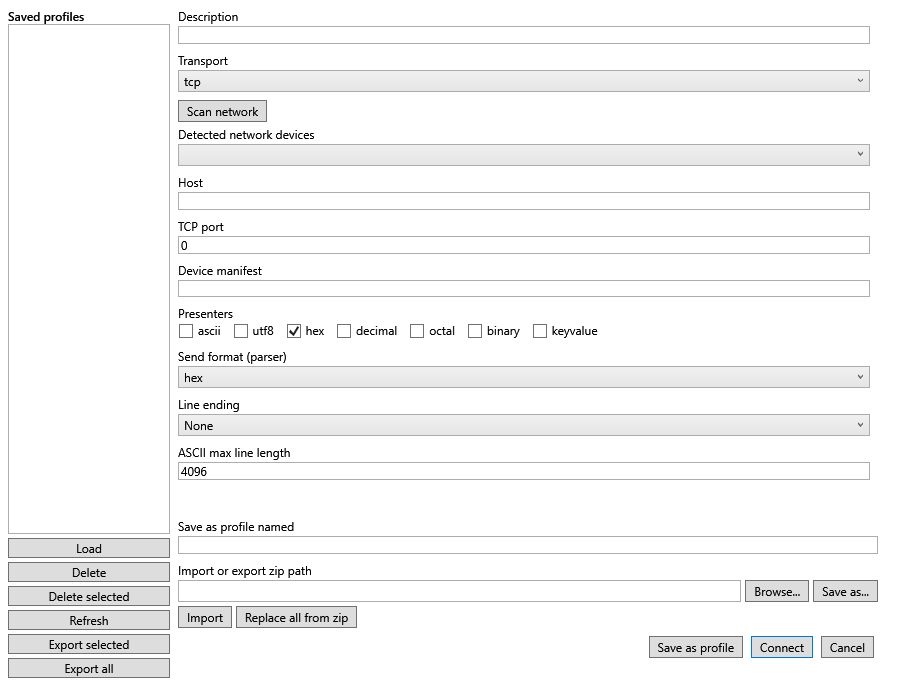
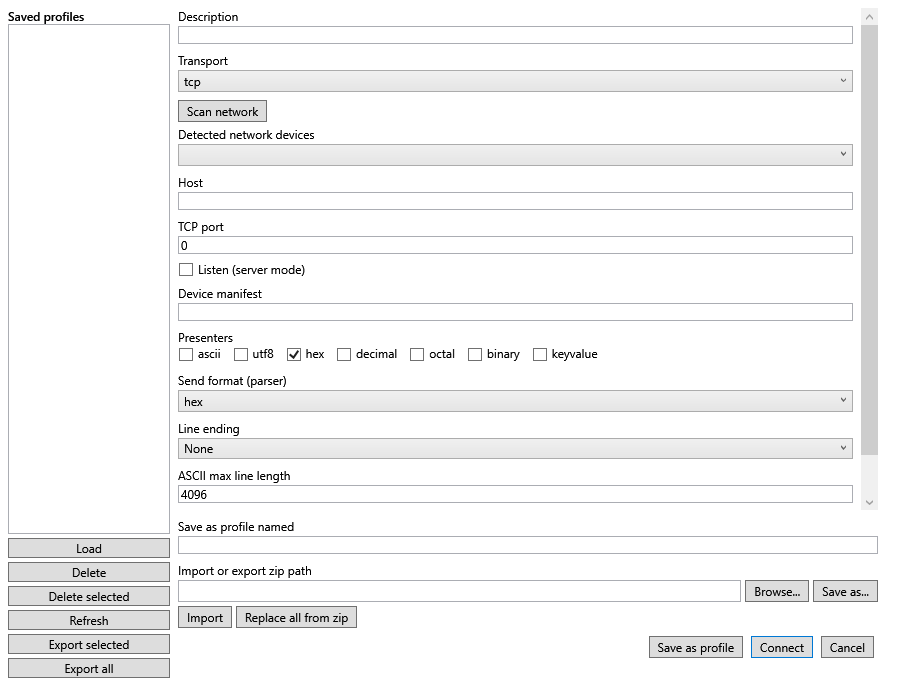
Add the remaining connection fields to the WPF editor and a coverage test

Changed region(s): [[0.1867, 0.03, 0.9956, 0.72]]

diff --git a/src/Applications/DevTerm/OoBDev.DevTerm.Wpf/ConnectionEditorWindow.xaml b/src/Applications/DevTerm/OoBDev.DevTerm.Wpf/ConnectionEditorWindow.xaml
@@ -62,6 +62,7 @@
                     <ComboBox ItemsSource="{Binding SerialPortNames}" SelectedItem="{Binding SelectedSerialPort}" ItemTemplate="{StaticResource TextDisplay}" Margin="0,2,0,8" />
                     <TextBlock Text="Serial port" />
                     <TextBox Text="{Binding Port, UpdateSourceTrigger=PropertyChanged}" Margin="0,2,0,8" />
+                    <TextBlock Text="{Binding SerialPortNotFoundHint}" Foreground="Firebrick" TextWrapping="Wrap" Margin="0,0,0,8" Visibility="{Binding ConnectedDeviceNotFound, Converter={StaticResource Visible}}" />
                     <TextBlock Text="Baud" />
                     <TextBox Text="{Binding Baud, UpdateSourceTrigger=PropertyChanged}" Margin="0,2,0,8" />
                     <TextBlock Text="Data bits" />
@@ -72,6 +73,14 @@
                     <ComboBox ItemsSource="{Binding StopBitsOptions}" SelectedItem="{Binding StopBitsText}" Margin="0,2,0,8" />
                     <TextBlock Text="Flow control" />
                     <ComboBox ItemsSource="{Binding HandshakeOptions}" SelectedItem="{Binding HandshakeText}" Margin="0,2,0,8" />
+                    <CheckBox Content="DTR" IsChecked="{Binding Dtr}" Margin="0,0,0,4" />
+                    <CheckBox Content="RTS" IsChecked="{Binding Rts}" Margin="0,0,0,8" />
+                    <TextBlock Text="Write timeout (ms)" />
+                    <TextBox Text="{Binding WriteTimeoutMs, UpdateSourceTrigger=PropertyChanged}" Margin="0,2,0,8" />
+                    <StackPanel Visibility="{Binding IsSerialTransport, Converter={StaticResource Visible}}">
+                    <TextBlock Text="Read timeout (ms)" />
+                    <TextBox Text="{Binding ReadTimeoutMs, UpdateSourceTrigger=PropertyChanged}" Margin="0,2,0,8" />
+                    </StackPanel>
                 </StackPanel>
                 <StackPanel Visibility="{Binding IsTcpLikeTransport, Converter={StaticResource Visible}}">
                     <Button Content="Scan network" Command="{Binding Scans.ScanLxi, RelativeSource={RelativeSource AncestorType=Window}}" HorizontalAlignment="Left" Padding="8,2" Margin="0,0,0,4" />
@@ -81,20 +90,23 @@
                     <TextBox Text="{Binding Host, UpdateSourceTrigger=PropertyChanged}" Margin="0,2,0,8" />
                     <TextBlock Text="TCP port" />
                     <TextBox Text="{Binding TcpPort, UpdateSourceTrigger=PropertyChanged}" Margin="0,2,0,8" />
+                    <CheckBox Content="Listen (server mode)" IsChecked="{Binding Listen}" Visibility="{Binding IsTcpTransport, Converter={StaticResource Visible}}" Margin="0,0,0,8" />
                 </StackPanel>
                 <StackPanel Visibility="{Binding IsUsbDeviceTransport, Converter={StaticResource Visible}}">
                     <TextBlock Text="Detected HID devices" Visibility="{Binding IsHidTransport, Converter={StaticResource Visible}}" />
                     <ComboBox ItemsSource="{Binding HidDeviceOptions}" SelectedItem="{Binding SelectedHidDevice}" ItemTemplate="{StaticResource OptionDisplay}" Margin="0,2,0,8" Visibility="{Binding IsHidTransport, Converter={StaticResource Visible}}" />
                     <TextBlock Text="Detected USBTMC devices" Visibility="{Binding IsUsbtmcTransport, Converter={StaticResource Visible}}" />
                     <ComboBox ItemsSource="{Binding UsbtmcDeviceOptions}" SelectedItem="{Binding SelectedUsbtmcDevice}" ItemTemplate="{StaticResource OptionDisplay}" Margin="0,2,0,8" Visibility="{Binding IsUsbtmcTransport, Converter={StaticResource Visible}}" />
-                    <TextBlock Text="Vendor id" />
-                    <TextBox Text="{Binding VendorId, UpdateSourceTrigger=PropertyChanged}" Margin="0,2,0,8" />
-                    <TextBlock Text="Product id" />
-                    <TextBox Text="{Binding ProductId, UpdateSourceTrigger=PropertyChanged}" Margin="0,2,0,8" />
+                    <CheckBox Content="Show as hex" IsChecked="{Binding IdsShowHex}" Margin="0,0,0,8" />
+                    <TextBlock Text="Vendor ID" />
+                    <TextBox Text="{Binding VendorIdDisplay, UpdateSourceTrigger=PropertyChanged}" Margin="0,2,0,8" />
+                    <TextBlock Text="Product ID" />
+                    <TextBox Text="{Binding ProductIdDisplay, UpdateSourceTrigger=PropertyChanged}" Margin="0,2,0,8" />
                     <TextBlock Text="Serial number" />
                     <TextBox Text="{Binding SerialNumber, UpdateSourceTrigger=PropertyChanged}" Margin="0,2,0,8" />
                     <TextBlock Text="Device path" />
                     <TextBox Text="{Binding DevicePath, UpdateSourceTrigger=PropertyChanged}" Margin="0,2,0,8" />
+                    <TextBlock Text="{Binding UsbDeviceNotFoundHint}" Foreground="Firebrick" TextWrapping="Wrap" Margin="0,0,0,8" Visibility="{Binding ConnectedDeviceNotFound, Converter={StaticResource Visible}}" />
                 </StackPanel>
                 <StackPanel Visibility="{Binding IsBleTransport, Converter={StaticResource Visible}}">
                     <Button Content="Scan Bluetooth" Command="{Binding Scans.ScanBle, RelativeSource={RelativeSource AncestorType=Window}}" HorizontalAlignment="Left" Padding="8,2" Margin="0,0,0,4" />
@@ -117,6 +129,15 @@
                 <StackPanel Visibility="{Binding IsMqttTransport, Converter={StaticResource Visible}}">
                     <TextBlock Text="User name" />
                     <TextBox Text="{Binding Username, UpdateSourceTrigger=PropertyChanged}" Margin="0,2,0,8" />
+                    <TextBlock Text="Subscribe topics" />
+                    <TextBox Text="{Binding Subscribe, UpdateSourceTrigger=PropertyChanged}" Margin="0,2,0,8" />
+                    <TextBlock Text="Publish topic" />
+                    <TextBox Text="{Binding Publish, UpdateSourceTrigger=PropertyChanged}" Margin="0,2,0,8" />
+                </StackPanel>
+                <StackPanel Visibility="{Binding IsLoopbackTransport, Converter={StaticResource Visible}}">
+                    <TextBlock Text="{Binding LoopbackInfo}" TextWrapping="Wrap" Margin="0,0,0,8" />
+                    <TextBlock Text="Sample interval (ms)" />
+                    <TextBox Text="{Binding LoopbackSampleIntervalMs, UpdateSourceTrigger=PropertyChanged}" Margin="0,2,0,8" />
                 </StackPanel>
                 <TextBlock Text="Device manifest" />
                 <TextBox Text="{Binding ManifestName, UpdateSourceTrigger=PropertyChanged}" Margin="0,2,0,8" />
@@ -143,6 +164,8 @@
                 <ComboBox ItemsSource="{Binding LineEndingOptions}" SelectedItem="{Binding LineEndingText}" Margin="0,2,0,8" />
                 <TextBlock Text="ASCII max line length" />
                 <TextBox Text="{Binding AsciiMaxLineLength, UpdateSourceTrigger=PropertyChanged}" Margin="0,2,0,8" />
+                <TextBlock Text="Write byte delay (ms)" />
+                <TextBox Text="{Binding WriteByteDelayMs, UpdateSourceTrigger=PropertyChanged}" Margin="0,2,0,8" />
             </StackPanel>
             </ScrollViewer>
         </DockPanel>

diff --git a/src/Applications/DevTerm/OoBDev.DevTerm.Wpf.Tests/ConnectionEditorFieldCoverageTests.cs b/src/Applications/DevTerm/OoBDev.DevTerm.Wpf.Tests/ConnectionEditorFieldCoverageTests.cs
@@ -1,0 +1,46 @@
+using System;
+using System.IO;
+using System.Linq;
+using System.Reflection;
+using Microsoft.VisualStudio.TestTools.UnitTesting;
+using OoBDev.DevTerm.Configuration;
+
+namespace OoBDev.DevTerm.Wpf.Tests;
+
+/// <summary>Every field the connection editor view model declares for the form is bound by the WPF window.</summary>
+[TestCategory("Unit")]
+[TestClass]
+public sealed class ConnectionEditorFieldCoverageTests
+{
+    [TestMethod]
+    public void Xaml_BindsEveryFormFieldOfTheViewModel()
+    {
+        // Stage
+        var xaml = File.ReadAllText(Path.Combine(RepoRoot(), "src", "Applications", "DevTerm", "OoBDev.DevTerm.Wpf", "ConnectionEditorWindow.xaml"));
+        var fields = typeof(ConnectionEditorViewModel)
+            .GetProperties(BindingFlags.Public | BindingFlags.Instance)
+            .Where(p => p.GetCustomAttributes().Any(a => a.GetType().Name == "FormFieldAttribute"))
+            .Select(p => p.Name)
+            .Where(name => name != nameof(ConnectionEditorViewModel.PresentersText)) // the checkbox list binds PresenterChoices instead
+            .ToList();
+
+        // Test
+        var missing = fields.Where(name => !xaml.Contains("Binding " + name + ",", StringComparison.Ordinal)
+            && !xaml.Contains("Binding " + name + "}", StringComparison.Ordinal)).ToList();
+
+        // Assert
+        Assert.IsTrue(fields.Count > 20);
+        Assert.AreEqual(0, missing.Count, "Not bound in ConnectionEditorWindow.xaml: " + string.Join(", ", missing));
+    }
+
+    private static string RepoRoot()
+    {
+        var dir = new DirectoryInfo(AppContext.BaseDirectory);
+        while (dir is not null && !File.Exists(Path.Combine(dir.FullName, "GitVersion.yml")))
+        {
+            dir = dir.Parent;
+        }
+
+        return dir?.FullName ?? throw new InvalidOperationException("repo root not found");
+    }
+}

diff --git a/docs/changes/2026-11-12.md b/docs/changes/2026-11-12.md
@@ -246,4 +246,4 @@ Work finished on 2026-11-12, one section per task. Index: [README](README.md).
 
 ## WPF Connection Editor: presenter, SCPI and send-format fields
 
-- The WPF window showed only the transport fields; the presenters, SCPI profile and timeout, device manifest, description, send format, line ending and ASCII line length were missing (the TUI had them). Added to `ConnectionEditorWindow.xaml` bound to the shared view model, with a window test, regenerated screenshots and corrected user-guide text (device panels are compiled in, not plugins). WPF tests: 13 connection-editor tests pass.
+- The WPF window showed only the transport fields; the presenters, SCPI profile and timeout, device manifest, description, send format, line ending and ASCII line length were missing (the TUI had them). Added to `ConnectionEditorWindow.xaml` bound to the shared view model, with a window test, regenerated screenshots and corrected user-guide text (device panels are compiled in, not plugins). A second pass added the rest: DTR, RTS, write and read timeouts, listen mode, hex or decimal vendor and product ids, the not-found hints, MQTT subscribe and publish topics, the loopback note and sample interval, and write byte delay; `ConnectionEditorFieldCoverageTests` fails if a view-model form field is not bound in the XAML. WPF unit tests pass.
